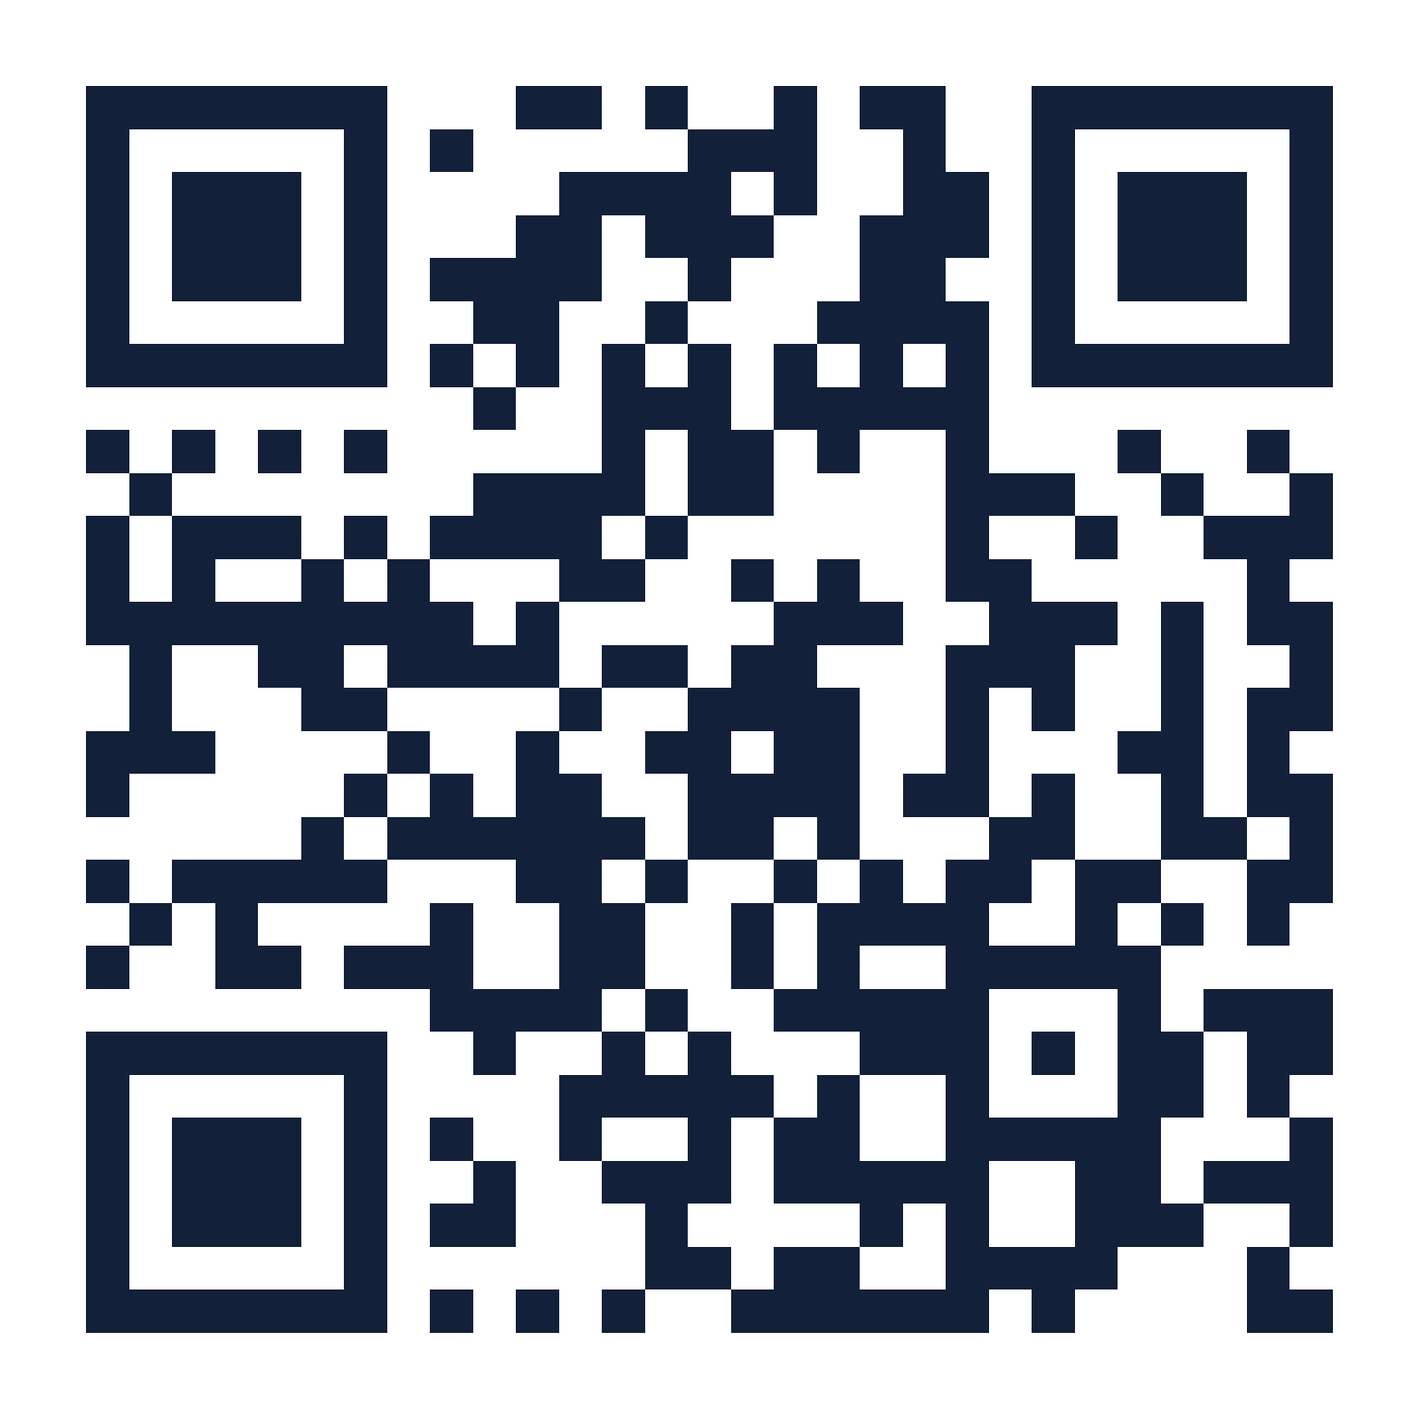
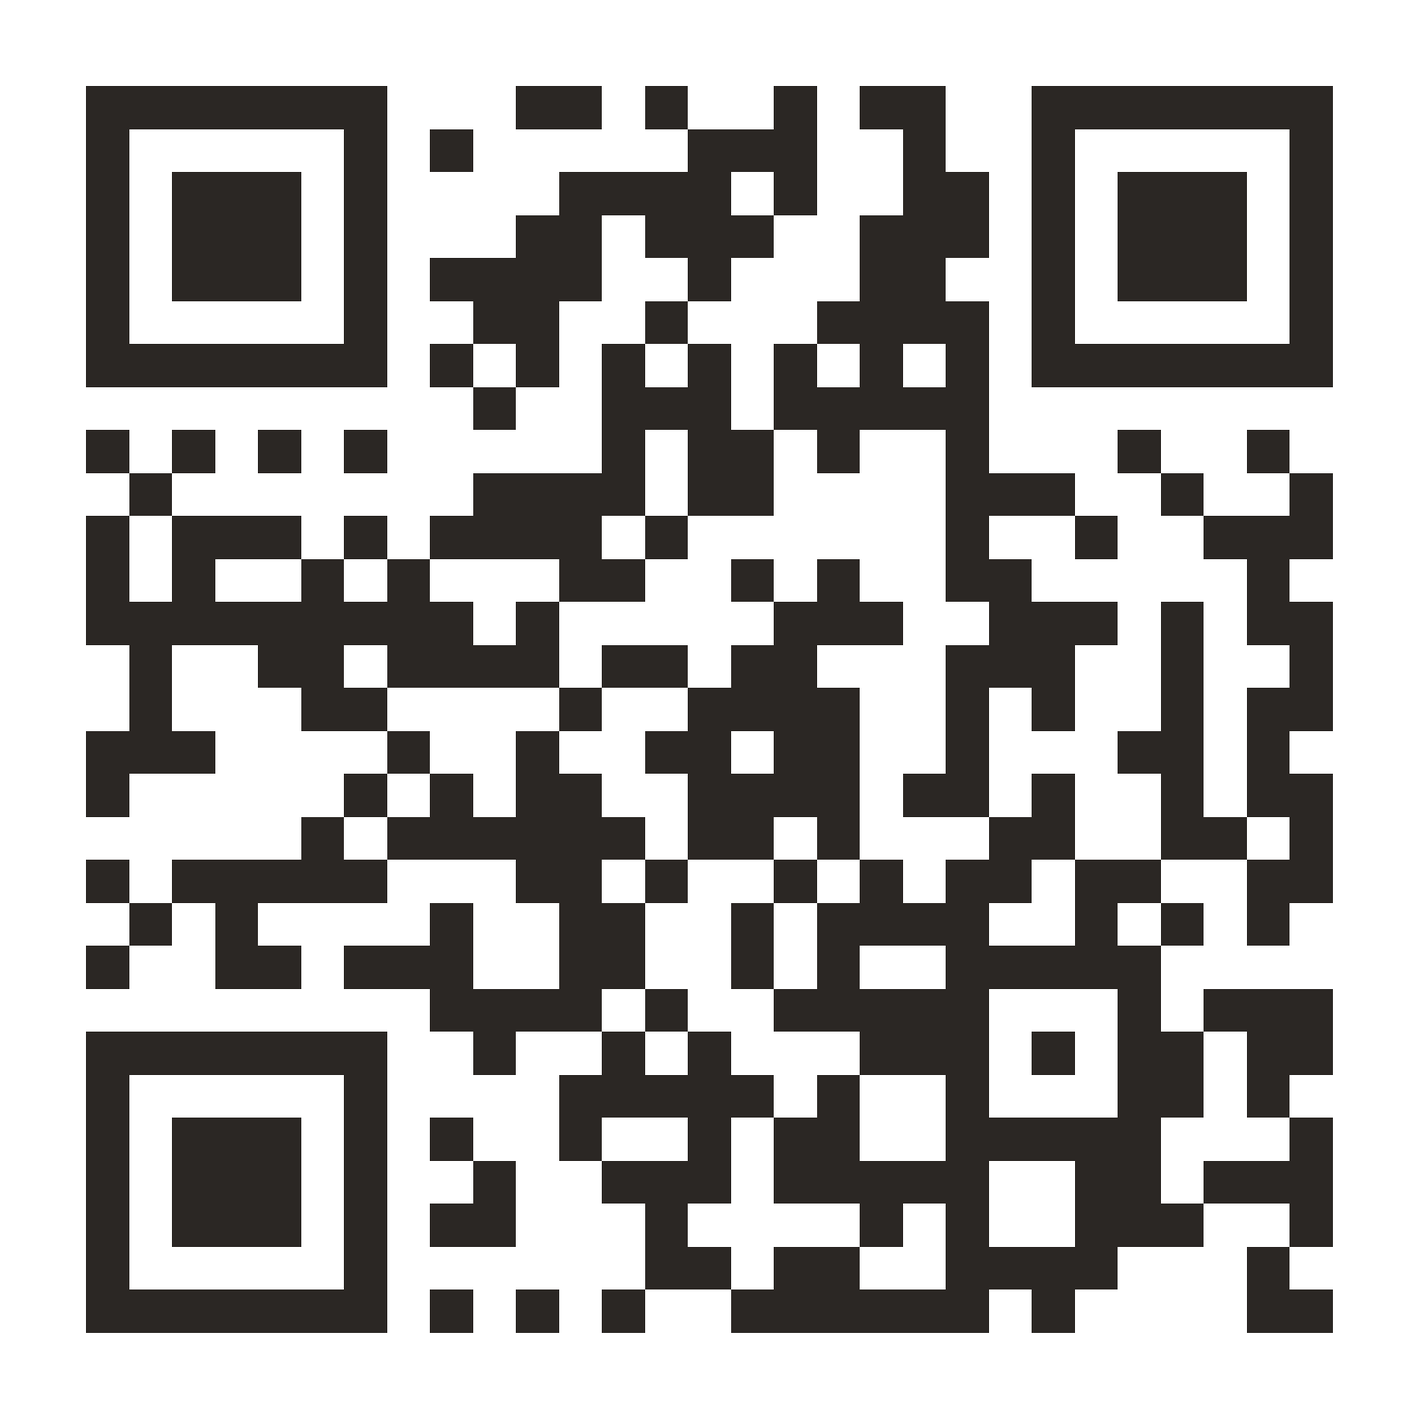
한화 톤앤매너 적용: 따뜻한 회색 바탕, 차콜 머리띠, 주황 포인트, 비교 화면의 팀장 표시는 청록

diff --git a/src/app/globals.css b/src/app/globals.css
@@ -1,31 +1,31 @@
 /* 프로토타입 v0.9의 색상 토큰과 레이아웃을 그대로 옮기고, 웹앱용 요소(시작 화면, 진행률, 버튼, 교차 보기, 현황판, 인쇄)를 더했다. */
 :root {
-  --bg: #f6f8fb; --surface: #ffffff; --ink: #19233a; --sub: #58647c;
-  --navy: #12203a; --blue: #27457b; --accent: #3f6dc1; --accent2: #7e9ed6;
-  --pale: #dee8f6; --paleline: #c3d3ea; --line: #d9e0eb;
-  --red: #b3261e; --amber: #8a6a00; --amberbg: #fbf4df;
-  --exink: #2f5aa8; --sheet: #fbfcfe; --chipink: #ffffff;
-  --leader: #c2571a; --leaderbg: #fbe9dd;
+  --bg: #f7f5f2; --surface: #ffffff; --ink: #1f1d1b; --sub: #6b655f;
+  --navy: #2b2724; --blue: #4a4440; --accent: #f37321; --accent-text: #c9561a; --accent2: #f6a26b;
+  --pale: #fdeee2; --paleline: #f3c7a6; --line: #e6e1dc;
+  --red: #b3261e; --amber: #7a6a2e; --amberbg: #f6f1e3;
+  --exink: #c9561a; --sheet: #fbfaf8; --chipink: #ffffff;
+  --leader: #1f7a8c; --leaderbg: #e3f1f4;
   color-scheme: light;
 }
 @media (prefers-color-scheme: dark) {
   :root:not([data-theme="light"]) {
-    --bg: #0d1524; --surface: #151f33; --ink: #e7ecf6; --sub: #9facc4;
-    --navy: #0b1526; --blue: #1c3156; --accent: #8aacee; --accent2: #5f7cb4;
-    --pale: #1b2a45; --paleline: #2c3f63; --line: #2a3650;
+    --bg: #16130f; --surface: #201b17; --ink: #f1ece6; --sub: #a89f96;
+    --navy: #0f0d0b; --blue: #3a332e; --accent: #f98a42; --accent-text: #ffa366; --accent2: #b86a3a;
+    --pale: #3a2a1e; --paleline: #5a3e2a; --line: #362e28;
     --red: #f2a099; --amber: #e7c36a; --amberbg: #2a2410;
-    --exink: #9dbcf2; --sheet: #111b2e; --chipink: #f2f6fd;
-    --leader: #f0a070; --leaderbg: #35200f;
+    --exink: #ffa366; --sheet: #1a1612; --chipink: #f7f1ea;
+    --leader: #5fb3c4; --leaderbg: #15333a;
     color-scheme: dark;
   }
 }
 :root[data-theme="dark"] {
-  --bg: #0d1524; --surface: #151f33; --ink: #e7ecf6; --sub: #9facc4;
-  --navy: #0b1526; --blue: #1c3156; --accent: #8aacee; --accent2: #5f7cb4;
-  --pale: #1b2a45; --paleline: #2c3f63; --line: #2a3650;
+  --bg: #16130f; --surface: #201b17; --ink: #f1ece6; --sub: #a89f96;
+  --navy: #0f0d0b; --blue: #3a332e; --accent: #f98a42; --accent-text: #ffa366; --accent2: #b86a3a;
+  --pale: #3a2a1e; --paleline: #5a3e2a; --line: #362e28;
   --red: #f2a099; --amber: #e7c36a; --amberbg: #2a2410;
-  --exink: #9dbcf2; --sheet: #111b2e; --chipink: #f2f6fd;
-  --leader: #f0a070; --leaderbg: #35200f;
+  --exink: #ffa366; --sheet: #1a1612; --chipink: #f7f1ea;
+  --leader: #5fb3c4; --leaderbg: #15333a;
   color-scheme: dark;
 }
 * { box-sizing: border-box; }
@@ -40,7 +40,7 @@ body {
   overflow-wrap: break-word;
 }
 button, input, select { font: inherit; color: inherit; }
-a { color: var(--accent); }
+a { color: var(--accent-text); }
 
 .wrap {
   max-width: 900px; margin: 0 auto;
@@ -48,7 +48,7 @@ a { color: var(--accent); }
   padding-right: max(16px, env(safe-area-inset-right, 0px));
   padding-block: 0 64px;
 }
-.band { background: var(--navy); color: #eaf0fa; }
+.band { background: var(--navy); color: #f1ece6; }
 .band .inner {
   max-width: 900px; margin: 0 auto;
   padding-left: max(16px, env(safe-area-inset-left, 0px));
@@ -56,17 +56,17 @@ a { color: var(--accent); }
   padding-block: 40px 32px;
 }
 .band.compact .inner { padding-block: 26px 22px; }
-.eyebrow { font-size: 12px; letter-spacing: .14em; color: #9fb4d8; margin: 0 0 10px; font-weight: 500; }
+.eyebrow { font-size: 12px; letter-spacing: .14em; color: #f6a26b; margin: 0 0 10px; font-weight: 500; }
 h1 { font-weight: 700; font-size: clamp(28px, 5vw, 42px); margin: 0 0 14px; color: #fff; text-wrap: balance; line-height: 1.25; }
 .band.compact h1 { font-size: clamp(22px, 4vw, 30px); margin-bottom: 6px; }
-.lede { max-width: 64ch; margin: 0; font-size: 16px; color: #d5dff0; }
+.lede { max-width: 64ch; margin: 0; font-size: 16px; color: #d9d2cb; }
 .lede b { color: #fff; }
 .chips { display: flex; flex-wrap: wrap; gap: 8px; margin-top: 20px; }
-.chip { background: rgba(255,255,255,.1); border: 1px solid rgba(255,255,255,.22); color: #e8effb; border-radius: 999px; padding: 4px 14px; font-size: 12.5px; font-weight: 500; }
+.chip { background: rgba(255,255,255,.08); border: 1px solid rgba(255,255,255,.2); color: #efe9e2; border-radius: 999px; padding: 4px 14px; font-size: 12.5px; font-weight: 500; }
 .notice { background: var(--pale); border: 1px solid var(--paleline); border-radius: 8px; padding: 12px 16px; font-size: 13.5px; margin-top: 26px; }
-.notice b { color: var(--accent); }
+.notice b { color: var(--accent-text); }
 h2 { font-weight: 700; font-size: 22px; margin: 52px 0 6px; text-wrap: balance; }
-h2 .part { display: inline-block; font-size: 12px; font-weight: 700; letter-spacing: .08em; color: var(--accent); background: var(--pale); border-radius: 999px; padding: 2px 10px; margin-right: 10px; vertical-align: 3px; }
+h2 .part { display: inline-block; font-size: 12px; font-weight: 700; letter-spacing: .08em; color: var(--accent-text); background: var(--pale); border-radius: 999px; padding: 2px 10px; margin-right: 10px; vertical-align: 3px; }
 .h2sub { color: var(--sub); margin: 0 0 20px; max-width: 70ch; }
 
 /* 시작 화면 */
@@ -93,7 +93,7 @@ h2 .part { display: inline-block; font-size: 12px; font-weight: 700; letter-spac
 /* 진단지 */
 .axis { background: var(--surface); border: 1px solid var(--line); border-radius: 10px; padding: 18px 20px; margin-bottom: 14px; }
 .axhead { display: flex; align-items: baseline; gap: 10px; flex-wrap: wrap; margin-bottom: 4px; }
-.axid { font-weight: 700; font-size: 19px; color: var(--accent); }
+.axid { font-weight: 700; font-size: 19px; color: var(--accent-text); }
 .axname { font-weight: 700; font-size: 16px; }
 .axwhy { font-size: 12.5px; color: var(--sub); margin: 0 0 12px; }
 .q { border-top: 1px solid var(--line); padding: 12px 0 4px; scroll-margin-top: 70px; }
@@ -102,14 +102,14 @@ h2 .part { display: inline-block; font-size: 12px; font-weight: 700; letter-spac
 .opts { display: flex; flex-direction: column; gap: 6px; }
 .opts label { display: flex; gap: 9px; align-items: flex-start; font-size: 13.5px; cursor: pointer; padding: 8px 10px; border-radius: 7px; border: 1px solid transparent; }
 .opts label:has(input:checked) { background: var(--pale); border-color: var(--paleline); }
-.opts input { margin-top: 4px; accent-color: var(--accent); flex: none; width: 16px; height: 16px; }
+.opts input { margin-top: 4px; accent-color: var(--accent-text); flex: none; width: 16px; height: 16px; }
 .opts input:focus-visible { outline: 2px solid var(--accent); outline-offset: 2px; }
 
 /* 버튼과 제출 영역 */
 .btn, a.btn { text-decoration: none; }
 .btn { display: inline-flex; align-items: center; justify-content: center; gap: 6px; min-height: 46px; padding: 10px 20px; border-radius: 8px; border: 1px solid var(--accent); background: var(--accent); color: #fff; font-weight: 700; font-size: 15px; cursor: pointer; }
 .btn:disabled { opacity: .45; cursor: not-allowed; }
-.btn.ghost { background: transparent; color: var(--accent); }
+.btn.ghost { background: transparent; color: var(--accent-text); border-color: var(--accent-text); }
 .btn.small { min-height: 36px; padding: 6px 14px; font-size: 13px; }
 .btn:focus-visible { outline: 2px solid var(--accent); outline-offset: 2px; }
 .submitbar { background: var(--surface); border: 1px solid var(--line); border-radius: 10px; padding: 18px 20px; margin-top: 10px; display: flex; flex-direction: column; gap: 10px; }
@@ -129,12 +129,12 @@ h2 .part { display: inline-block; font-size: 12px; font-weight: 700; letter-spac
 /* 결과지 */
 .result-band { background: var(--blue); color: #fff; border-radius: 12px 12px 0 0; padding: 18px 22px; margin-top: 28px; }
 .result-band .rt { font-weight: 700; font-size: 22px; }
-.result-band .rs { font-size: 13px; color: #c9d7ee; margin-top: 2px; }
+.result-band .rs { font-size: 13px; color: #d9d2cb; margin-top: 2px; }
 .rbody { background: var(--surface); border: 1px solid var(--line); border-top: none; border-radius: 0 0 12px 12px; padding: 6px 22px 26px; }
 .rblock { border-top: 1px solid var(--line); padding: 20px 0 6px; margin-top: 14px; }
 .rblock:first-child { border-top: none; margin-top: 0; }
 .rblock h3 { margin: 0 0 4px; font-size: 16.5px; }
-.rblock h3 .bn { color: var(--accent); font-weight: 700; margin-right: 7px; }
+.rblock h3 .bn { color: var(--accent-text); font-weight: 700; margin-right: 7px; }
 .rblock .bs { color: var(--sub); font-size: 13px; margin: 0 0 14px; }
 
 /* 모델 다이어그램 */
@@ -144,7 +144,7 @@ h2 .part { display: inline-block; font-size: 12px; font-weight: 700; letter-spac
 .mgroup .gl { font-size: 11px; font-weight: 700; letter-spacing: .08em; color: var(--sub); margin-bottom: 6px; }
 .mgroup .gi { font-size: 12.5px; margin: 3px 0; }
 .mforce { border-radius: 8px; padding: 12px 14px; color: #fff; flex: 1; display: flex; flex-direction: column; justify-content: center; }
-.mforce.mo { background: var(--accent); } .mforce.ca { background: var(--blue); }
+.mforce.mo { background: var(--accent-text); } .mforce.ca { background: var(--blue); }
 .mforce .fn { font-weight: 700; font-size: 15px; } .mforce .fd { font-size: 12px; opacity: .9; }
 .mout { border: 2px solid var(--accent); border-radius: 8px; padding: 12px 14px; background: var(--pale); flex: 1; display: flex; flex-direction: column; justify-content: center; }
 .mout .on { font-weight: 700; font-size: 14px; } .mout .od { font-size: 12px; color: var(--sub); }
@@ -172,7 +172,7 @@ h2 .part { display: inline-block; font-size: 12px; font-weight: 700; letter-spac
 .cell { background: var(--sheet); border: 1px solid var(--line); border-radius: 6px; padding: 9px 10px; font-size: 11.5px; color: var(--sub); min-width: 0; }
 .cell b { display: block; font-size: 12px; color: var(--ink); margin-bottom: 2px; }
 .cell.on { background: var(--pale); border: 2px solid var(--accent); }
-.cell.on b { color: var(--accent); }
+.cell.on b { color: var(--accent-text); }
 .dot { position: absolute; width: 16px; height: 16px; border-radius: 50%; background: var(--accent); border: 3px solid var(--surface); box-shadow: 0 0 0 1.5px var(--accent); transform: translate(-50%, 50%); z-index: 2; }
 .dot.leader { background: var(--leader); box-shadow: 0 0 0 1.5px var(--leader); z-index: 3; }
 .dotlab { position: absolute; transform: translate(-50%, 50%); z-index: 4; font-size: 10.5px; font-weight: 700; padding: 1px 7px; border-radius: 999px; white-space: nowrap; margin-left: 0; margin-bottom: 14px; pointer-events: none; }
@@ -190,13 +190,13 @@ h2 .part { display: inline-block; font-size: 12px; font-weight: 700; letter-spac
 .scorebox .sv { font-size: 24px; font-weight: 700; font-variant-numeric: tabular-nums; }
 .scorebox .sv small { font-size: 12px; color: var(--sub); font-weight: 400; }
 .badge { display: inline-block; font-size: 10.5px; font-weight: 700; border-radius: 999px; padding: 1px 9px; margin-left: 6px; vertical-align: 2px; }
-.badge.hi { background: var(--pale); color: var(--accent); }
+.badge.hi { background: var(--pale); color: var(--accent-text); }
 .badge.lo { background: var(--amberbg); color: var(--amber); }
 .borderline { font-size: 12px; color: var(--amber); background: var(--amberbg); border-radius: 7px; padding: 8px 12px; margin-top: 4px; }
 
 /* 접근법 카드 */
 .approach { border: 2px solid var(--accent); border-radius: 10px; padding: 16px 18px; background: var(--sheet); }
-.approach .an { font-weight: 700; font-size: 19px; color: var(--accent); margin-bottom: 6px; }
+.approach .an { font-weight: 700; font-size: 19px; color: var(--accent-text); margin-bottom: 6px; }
 .approach .ad { font-size: 14px; margin-bottom: 10px; }
 .approach .as { font-size: 14px; background: var(--pale); border-radius: 8px; padding: 10px 14px; margin-bottom: 12px; }
 .approach .fs { font-size: 12px; font-weight: 700; letter-spacing: .06em; color: var(--sub); margin-bottom: 6px; }
@@ -208,14 +208,14 @@ h2 .part { display: inline-block; font-size: 12px; font-weight: 700; letter-spac
 .size3 .seg { flex: 1; min-width: 0; border-radius: 7px; padding: 10px 10px 8px; border: 1px solid var(--line); background: var(--sheet); color: var(--sub); }
 .size3 .seg b { display: block; font-size: 13.5px; color: inherit; }
 .size3 .seg small { font-size: 11px; line-height: 1.45; display: block; }
-.size3 .seg.open { background: var(--pale); border-color: var(--accent); color: var(--ink); }
-.size3 .seg.cap { background: var(--accent); border-color: var(--accent); color: #fff; }
+.size3 .seg.open { background: var(--pale); border-color: var(--accent-text); color: var(--ink); }
+.size3 .seg.cap { background: var(--accent); border-color: var(--accent-text); color: #fff; }
 .size3 .seg.cap small { opacity: .92; }
-.size3 .seg .captag { display: none; font-size: 10.5px; font-weight: 700; background: #fff; color: var(--accent); border-radius: 999px; padding: 1px 9px; margin-bottom: 5px; }
+.size3 .seg .captag { display: none; font-size: 10.5px; font-weight: 700; background: #fff; color: var(--accent-text); border-radius: 999px; padding: 1px 9px; margin-bottom: 5px; }
 .size3 .seg.cap .captag { display: inline-block; }
 /* 큰 변화 상태에서 아직 열리지 않은 재설계형. 회색 대신 점선으로 다음 단계임을 보여 준다 */
 .size3 .seg.next { border: 1.5px dashed var(--accent); background: var(--surface); color: var(--ink); }
-.size3 .seg .nexttag { display: inline-block; font-size: 10.5px; font-weight: 700; color: var(--accent); background: var(--pale); border-radius: 999px; padding: 1px 9px; margin-bottom: 5px; }
+.size3 .seg .nexttag { display: inline-block; font-size: 10.5px; font-weight: 700; color: var(--accent-text); background: var(--pale); border-radius: 999px; padding: 1px 9px; margin-bottom: 5px; }
 .size3 .seg small.def { font-weight: 500; color: inherit; margin-bottom: 2px; }
 .size3 .seg small.ex { margin-top: 4px; opacity: .85; }
 .cont { display: flex; align-items: center; gap: 10px; font-size: 11.5px; color: var(--sub); margin: 10px 2px 2px; }
@@ -241,9 +241,9 @@ h2 .part { display: inline-block; font-size: 12px; font-weight: 700; letter-spac
 .honest .more { display: block; margin-top: 10px; }
 
 /* 교차 보기 */
-.cross-band { background: var(--leader); color: #fff; border-radius: 12px 12px 0 0; padding: 18px 22px; margin-top: 40px; }
+.cross-band { background: var(--blue); color: #fff; border-radius: 12px 12px 0 0; padding: 18px 22px; margin-top: 40px; }
 .cross-band .rt { font-weight: 700; font-size: 22px; }
-.cross-band .rs { font-size: 13px; color: #fbe9dd; margin-top: 2px; }
+.cross-band .rs { font-size: 13px; color: #d9d2cb; margin-top: 2px; }
 .legend { display: flex; gap: 14px; flex-wrap: wrap; font-size: 12.5px; margin: 6px 0 12px; }
 .legend span::before { content: ""; display: inline-block; width: 10px; height: 10px; border-radius: 50%; margin-right: 6px; vertical-align: -1px; }
 .legend .lg-leader::before { background: var(--leader); }
@@ -254,17 +254,17 @@ h2 .part { display: inline-block; font-size: 12px; font-weight: 700; letter-spac
 .brow2 .track { height: 11px; }
 .brow2 .bval { font-size: 12.5px; }
 .brow2 .bval.leader { color: var(--leader); }
-.brow2 .bval.staff { color: var(--accent); }
+.brow2 .bval.staff { color: var(--accent-text); }
 .gapcard { border: 1px solid var(--line); border-left: 4px solid var(--leader); border-radius: 8px; padding: 12px 16px; margin-bottom: 10px; }
 .gapcard .gn { font-weight: 700; font-size: 14px; }
 .gapcard .gv { font-size: 13px; color: var(--sub); margin-top: 4px; font-variant-numeric: tabular-nums; }
 .gapcard .gv b.leader { color: var(--leader); }
-.gapcard .gv b.staff { color: var(--accent); }
+.gapcard .gv b.staff { color: var(--accent-text); }
 .twocol { display: grid; grid-template-columns: 1fr 1fr; gap: 12px; }
 .twocol .col { border: 1px solid var(--line); border-radius: 8px; padding: 12px 14px; background: var(--sheet); min-width: 0; }
 .twocol .col .ch { font-size: 11.5px; font-weight: 700; letter-spacing: .06em; margin-bottom: 6px; }
 .twocol .col .ch.leader { color: var(--leader); }
-.twocol .col .ch.staff { color: var(--accent); }
+.twocol .col .ch.staff { color: var(--accent-text); }
 .twocol .col .cn { font-weight: 700; font-size: 14px; margin-bottom: 6px; }
 .twocol .col .cs { font-size: 13px; }
 .twocol .col ul { margin: 6px 0 0; padding-left: 18px; font-size: 13px; }
@@ -276,7 +276,7 @@ h2 .part { display: inline-block; font-size: 12px; font-weight: 700; letter-spac
 .admin th, .admin td { text-align: left; padding: 9px 12px; border-bottom: 1px solid var(--line); vertical-align: top; }
 .admin th { background: var(--pale); font-size: 12.5px; }
 .admin tr:last-child td { border-bottom: none; }
-.admin .ok { color: var(--accent); font-weight: 700; }
+.admin .ok { color: var(--accent-text); font-weight: 700; }
 .admin .no { color: var(--sub); }
 .admin .tm { font-size: 12px; color: var(--sub); font-variant-numeric: tabular-nums; }
 .kpis { display: flex; gap: 10px; flex-wrap: wrap; margin: 16px 0; }
@@ -287,7 +287,7 @@ h2 .part { display: inline-block; font-size: 12px; font-weight: 700; letter-spac
 /* 현황판 탭 */
 .tabs { display: flex; gap: 6px; border-bottom: 1px solid var(--line); margin-bottom: 18px; }
 .tabs a { text-decoration: none; color: var(--sub); font-weight: 700; font-size: 14px; padding: 10px 14px; border-bottom: 3px solid transparent; margin-bottom: -1px; }
-.tabs a.on { color: var(--accent); border-bottom-color: var(--accent); }
+.tabs a.on { color: var(--accent-text); border-bottom-color: var(--accent-text); }
 
 /* 분포 */
 .overview { background: var(--surface); border: 1px solid var(--line); border-radius: 10px; padding: 18px 20px; }
@@ -297,7 +297,7 @@ h2 .part { display: inline-block; font-size: 12px; font-weight: 700; letter-spac
 .ovsub .upd { display: block; }
 .ovctl { display: flex; gap: 14px; align-items: center; flex-wrap: wrap; font-size: 13px; }
 .ovctl label { display: inline-flex; gap: 6px; align-items: center; cursor: pointer; }
-.ovctl input { accent-color: var(--accent); width: 16px; height: 16px; }
+.ovctl input { accent-color: var(--accent-text); width: 16px; height: 16px; }
 .ovbody { display: flex; gap: 20px; align-items: flex-start; flex-wrap: wrap; margin-top: 6px; }
 .ovchart { flex: 1 1 420px; min-width: 0; }
 .ovchart svg { width: 100%; height: auto; display: block; }
@@ -310,7 +310,7 @@ h2 .part { display: inline-block; font-size: 12px; font-weight: 700; letter-spac
 .ovcountl { font-size: 11px; font-weight: 700; }
 .ovfoot { display: flex; gap: 14px; align-items: center; flex-wrap: wrap; margin-top: 10px; font-size: 11.5px; color: var(--sub); }
 .ovfoot label { display: inline-flex; gap: 5px; align-items: center; cursor: pointer; }
-.ovfoot input { accent-color: var(--accent); width: 13px; height: 13px; }
+.ovfoot input { accent-color: var(--accent-text); width: 13px; height: 13px; }
 .ovmode { display: inline-flex; gap: 8px; align-items: center; padding: 2px 8px; border: 1px solid var(--line); border-radius: 999px; }
 .ovmode .ovmodel { font-size: 11.5px; font-weight: 700; color: var(--sub); }
 .ovmode label.off { color: var(--sub); opacity: .6; }
@@ -352,7 +352,7 @@ h2 .part { display: inline-block; font-size: 12px; font-weight: 700; letter-spac
 .axch .axid { font-size: 15px; }
 .axch .axname { font-size: 13.5px; }
 .axq { font-size: 13px; color: var(--sub); margin-bottom: 10px; }
-.axmulti { display: block; font-size: 11.5px; color: var(--accent); margin-top: 2px; }
+.axmulti { display: block; font-size: 11.5px; color: var(--accent-text); margin-top: 2px; }
 .opts label.dim { opacity: .5; }
 .axbars { display: flex; flex-direction: column; gap: 7px; }
 .axrow { display: grid; grid-template-columns: minmax(0, 1.4fr) minmax(0, 1fr) 58px; gap: 8px; align-items: center; font-size: 12.5px; }
@@ -369,7 +369,7 @@ h2 .part { display: inline-block; font-size: 12px; font-weight: 700; letter-spac
 .axtexts li.none { list-style: none; margin-left: -18px; color: var(--sub); }
 .overview.board.axov .axtexts { font-size: 16px; max-height: none; }
 .axpick { border: 1px solid var(--line); background: var(--surface); color: var(--ink); border-radius: 6px; padding: 2px 9px; font-size: 12px; cursor: pointer; }
-.axpick:hover { border-color: var(--accent); color: var(--accent); }
+.axpick:hover { border-color: var(--accent-text); color: var(--accent-text); }
 .overview.board.axov .axgrid { grid-template-columns: repeat(auto-fit, minmax(360px, 1fr)); gap: 14px; flex: 1 1 auto; min-height: 0; overflow: auto; align-content: start; }
 .overview.board.axov .axcard { padding: 16px 18px; }
 .overview.board.axov .axq { font-size: 15px; }

diff --git a/src/components/CrossView.tsx b/src/components/CrossView.tsx
@@ -99,7 +99,7 @@ export default function CrossView({ leader, staff, staffLabel, staffOptions, cur
                     <Badge v={leader.mo} />
                   </div>
                   <div className="sv" style={{ fontSize: 18 }}>
-                    <span style={{ color: "var(--accent)" }}>담당자 {f1(staff.mo)}</span>
+                    <span style={{ color: "var(--accent-text)" }}>담당자 {f1(staff.mo)}</span>
                     <Badge v={staff.mo} />
                   </div>
                 </div>
@@ -110,7 +110,7 @@ export default function CrossView({ leader, staff, staffLabel, staffOptions, cur
                     <Badge v={leader.ca} />
                   </div>
                   <div className="sv" style={{ fontSize: 18 }}>
-                    <span style={{ color: "var(--accent)" }}>담당자 {f1(staff.ca)}</span>
+                    <span style={{ color: "var(--accent-text)" }}>담당자 {f1(staff.ca)}</span>
                     <Badge v={staff.ca} />
                   </div>
                 </div>
